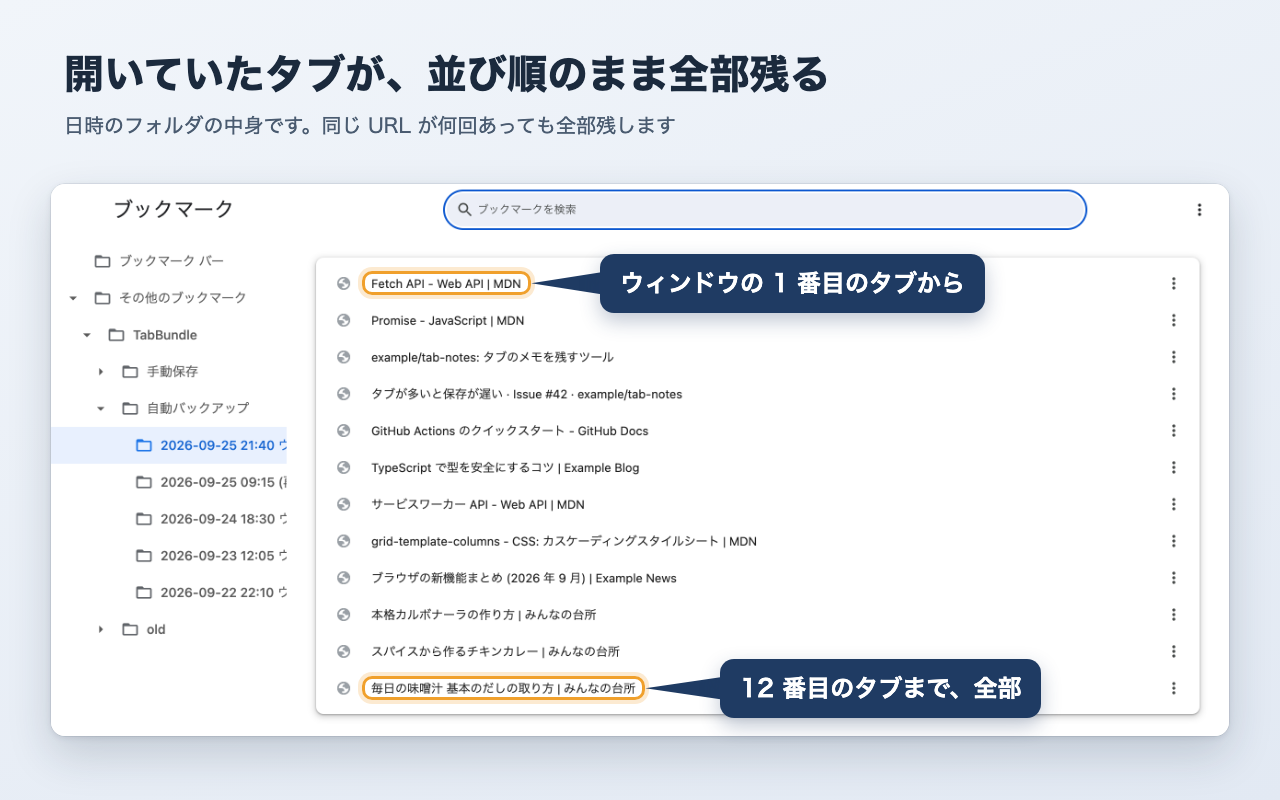
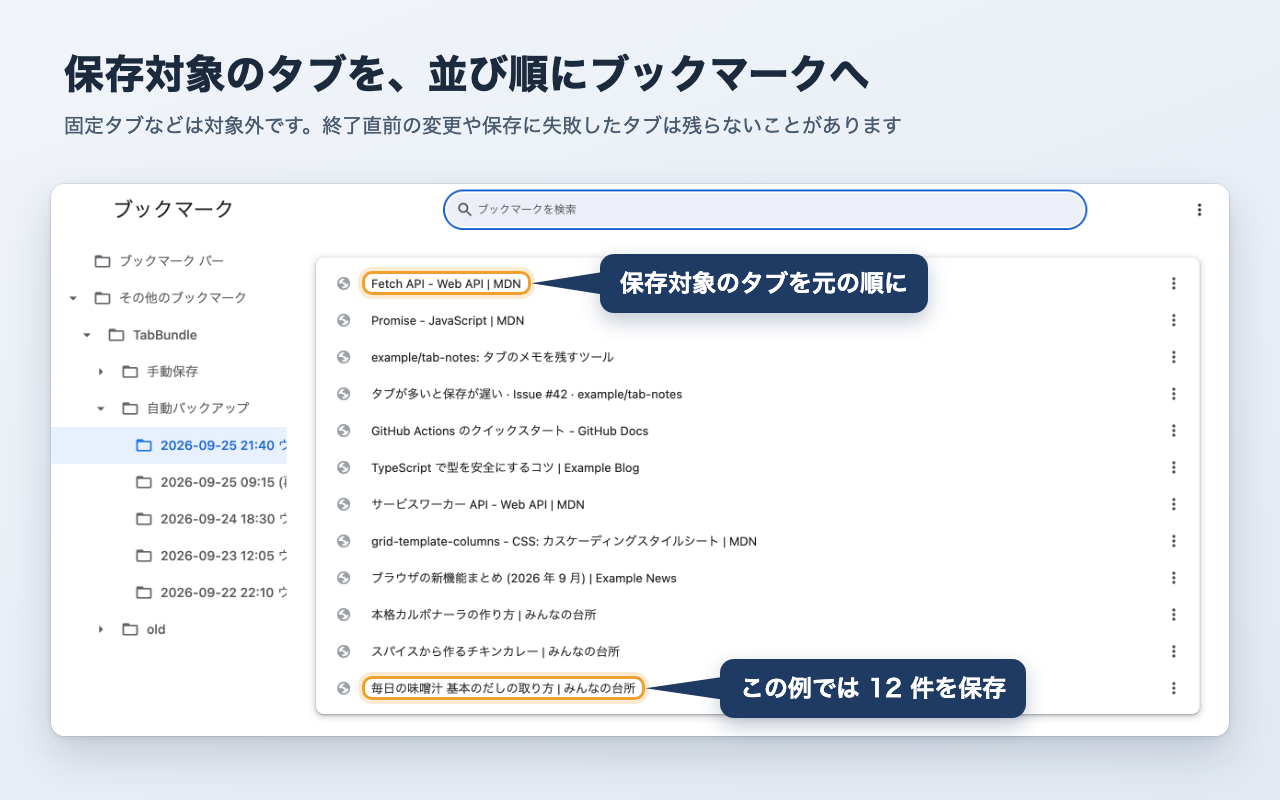
docs: clarify TabBundle privacy and release information

Changed region(s): [[0.0312, 0.0625, 0.6875, 0.1875], [0.4688, 0.3125, 0.7812, 0.4062], [0.5625, 0.8125, 0.8125, 0.9062]]

diff --git a/PRIVACY.md b/PRIVACY.md
@@ -4,96 +4,92 @@
 
 ## 日本語
 
-### 提供者
+### 提供者と適用範囲
 
-TabBundle は GearMind Inc. (株式会社GearMind) が提供します。会社のウェブサイトは https://gearmind.cc/ です。このポリシーでいう「開発者」は GearMind Inc. を指します。
+TabBundle は [GearMind Inc.（株式会社GearMind）](https://gearmind.cc/) が提供する Chrome 拡張機能です。このポリシーは、TabBundle が扱う情報について説明します。
 
-### 集める情報と使い方
+### 取得する情報と利用目的
 
-TabBundle は、通常ウィンドウで開いているタブの URL、タイトル、固定の有無、並び順を読みます。タブの一覧を控え、自動バックアップ用のブックマークを作るために使います。保存したブックマークのタイトルと URL は、ポップアップの検索にも使います。
+通常ウィンドウのタブの URL、タイトル、固定の有無、並び順を取得し、ブックマークへの自動保存と検索に使います。保存・復旧に必要なウィンドウなどの識別子と日時も記録します。
 
-ページ本文の保存は、最初はすべてのサイトで OFF です。右クリックメニューで ON にしたホスト名と、該当ページの表示本文の先頭 20,000 字を扱います。ON の判定はホスト名の完全一致です。本文は URL ごとに保存し、ポップアップの検索に使います。休止中のタブや読み取れないページの本文は保存しません。本文には、開いたページによって個人情報が含まれる可能性があります。
+固定タブ、新しいタブ、拡張機能のページ、URL が空のタブは、ブックマークへの自動保存から除きます。自動保存前のタブ一覧には含まれます。シークレットウィンドウのタブは取得しません。
 
-固定タブ、新しいタブ、拡張機能のページ、URL が空のタブはバックアップしません。シークレットウィンドウのタブは、タブの控えにも本文の保存にも含めません。
+ページ本文の保存は、初期状態ではすべてのサイトで OFF です。右クリックメニューで ON にしたサイトのホスト名と、表示本文の先頭 20,000 字までを保存し、検索に使います。同じ URL の本文は上書きします。対象はホスト名の完全一致で判定するため、例えば `github.com` を ON にしても `gist.github.com` は対象になりません。休止中のタブや読み取れないページの本文は保存しません。
+
+保存した URL、タイトル、本文には、閲覧したページによって個人情報や私的な内容が含まれることがあります。
 
 ### 保存場所と共有
 
-情報はこの PC の Chrome 内に保存します。ブックマークは「その他のブックマーク/TabBundle/」以下に置きます。タブの控え、保存後の確認待ち情報、ON のホスト名、本文、古いバックアップを移した時刻は `chrome.storage.local` に置きます。一時的なセッション ID は `chrome.storage.session` に置きます。`chrome.storage.sync` は使いません。保存データを拡張機能で暗号化していません。
+情報は利用者の Chrome 内に保存します。TabBundle 自体は外部へ送信せず、開発者が保存データを取得・閲覧する機能もありません。アカウント登録は不要です。
 
-TabBundle 自体はデータを外部へ送信せず、第三者に提供・販売しません。広告や解析にも使いません。アカウント登録、メールアドレスの入力、`chrome.identity` は使いません。取得した情報は、タブのバックアップと保存済みページの検索という目的にだけ使います。個人向け広告、広告プラットフォームやデータブローカーへの提供、信用判断や貸付には使いません。開発者やその関係者が保存データを閲覧する機能もありません。この取り扱いは Chrome ウェブストアの User Data Policy と Limited Use の制限に従います。
+ブックマークは「その他のブックマーク/TabBundle/」以下に保存します。Chrome のブックマーク同期が有効な場合、Chrome の機能によって Google に同期されることがあります。ページ本文は端末内に保存し、この同期の対象にはなりません。
 
-TabBundle が作るブックマークは、Chrome の通常のブックマークです。Chrome のブックマーク同期を有効にしている場合、Chrome 自身の機能として Google に同期されることがあります。これは TabBundle による送信ではありません。`chrome.storage.local` にある本文は Chrome のブックマーク同期の対象ではありません。
+TabBundle は保存データを独自に暗号化していません。端末や Chrome のプロファイルにアクセスできる人が、保存内容を読める可能性があります。
 
-### 保存期間と削除
+取得した情報は、タブのバックアップと保存済みページの検索にだけ使います。広告・アクセス解析、第三者への提供・販売、信用判断・貸付には利用しません。この情報の利用は、Chrome ウェブストアの [Limited Use](https://developer.chrome.com/docs/webstore/program-policies/limited-use) の制限に従います。
 
-自動バックアップは作成から 7 日を過ぎた後の次の片付けで「old/自動バックアップ/」へ移します。そこに移ってから 7 日を過ぎた後の次の片付けで削除します。「手動保存/」は自動で移動・削除しません。
+### 保存期間と削除方法
 
-サイトを OFF にすると、そのホストの保存済み本文をすべて消し、サイトへのアクセス許可を外します。Chrome の拡張機能設定でサイトへのアクセスを外した場合も、OFF にして本文を消します。TabBundle 内のブックマークから URL がなくなった本文は、片付けの際に消します。ただし、現在開いているタブと、まだバックアップを書いていないウィンドウの URL の本文は残します。
+- 自動バックアップは、作成から 7 日を過ぎた後の整理で「old/自動バックアップ/」へ移し、移動から 7 日を過ぎた後の整理で削除します。整理は 1 日 1 回と Chrome の起動時に行います。Chrome が動いていない間は削除されません。
+- 「手動保存/」内のブックマークは自動削除しません。残したいものは、このフォルダへ移してください。ブックマークは Chrome のブックマーク管理画面から削除できます。
+- 本文保存を OFF にすると、そのサイトの保存済み本文とアクセス許可を削除します。Chrome の設定からサイトへのアクセスを取り消した場合も同様です。ON にしたサイトの設定は、OFF にするまで保持します。
+- TabBundle 内にブックマークがなくなったページの本文は、次の整理で削除します。ただし、開いているタブや自動バックアップの処理待ちのページの本文は残します。本文に一律の日数による保存期限はありません。
+- 復旧用のタブ一覧は、タブの変更に合わせて更新します。閉じたウィンドウの情報は、保存処理を終えた後の更新時に削除します。保存直後の確認用データは、通常、保存から 60 秒以上経過した後の処理で削除します。Chrome の終了などで処理できなかった分は、次回起動時の復旧・確認まで残ります。
+- 起動を区別する一時的な識別子は、Chrome の再起動や拡張機能の更新・再読み込み・無効化で消えます。復旧用データ内の識別子は、そのデータとともに削除します。古いバックアップの移動日時は、対象がその保存先からなくなった後の整理で削除します。
 
-右クリックメニューからサイトを OFF にできます。TabBundle のブックマークは Chrome のブックマーク管理画面で削除できます。Chrome の仕様で、TabBundle をアンインストールすると `chrome.storage.local` のデータは削除されますが、作成済みのブックマークは残ります。不要なブックマークはご自身で削除できます。
+アンインストールすると、本文や復旧用データなど拡張機能内の保存情報は削除されます。作成済みのブックマークは残るため、不要なものは Chrome のブックマーク管理画面から削除してください。
 
-### 権限と理由
+### お問い合わせと変更
 
-| 権限 | 理由 |
-|---|---|
-| `tabs` | 開いているタブの URL とタイトルを読んで、自動バックアップに残すため |
-| `bookmarks` | TabBundle フォルダに書き込み、検索のために読むため |
-| `storage` | 控え、本文、ON のサイトの一覧を、この PC の中に置くため |
-| `alarms` | 1 日 1 回の片付けのため |
-| `contextMenus` | 本文の保存を ON / OFF する右クリックメニューのため |
-| `scripting` | ON にしたサイトのページから本文を読むため |
-| `unlimitedStorage` | 本文がたまっても保存の上限（10 MB）で止まらないようにするため |
-| サイトへのアクセス（`optional_host_permissions`） | インストール時には求めず、本文の保存を ON にしたサイトだけ、そのときに許可を求めるため |
+お問い合わせは [GearMind のフォーム](https://gearmind.cc/contact/) で受け付けます。送信する名前・メールアドレス・お問い合わせ内容には、[会社サイトのプライバシーポリシー](https://gearmind.cc/privacy/) が適用されます。
 
-### 問い合わせと変更
+不具合や機能の要望は [GitHub Issues](https://github.com/gearmind-inc/TabBundle/issues) でも受け付けます。投稿は公開されます。個人情報や機密情報を含む URL・本文・画像は投稿しないでください。
 
-問い合わせは GearMind Inc. のお問い合わせフォーム (https://gearmind.cc/contact/) で受け付けます。不具合の報告や機能の要望は、GitHub の TabBundle リポジトリの Issues でも受け付けます。このポリシーを変更した場合は、ここに変更後の内容と最終更新日を掲載します。
+このポリシーを変更した場合は、このページに変更後の内容と最終更新日を掲載します。
 
 ## English
 
 Last updated: 2026-09-30
 
-### Provider
+### Provider and scope
 
-TabBundle is provided by GearMind Inc. (株式会社GearMind). For more information, visit https://gearmind.cc/. In this policy, “the developer” means GearMind Inc.
+TabBundle is a Chrome extension provided by [GearMind Inc. (株式会社GearMind)](https://gearmind.cc/). This policy explains how TabBundle handles data.
 
-### Data collected and how it is used
+### Data collected and its purpose
 
-TabBundle reads the URL, title, pinned status, and order of tabs in normal windows. It keeps a local snapshot of open tabs to create automatic bookmark backups. It also uses the titles and URLs of saved bookmarks for search in the popup.
+TabBundle reads the URLs, titles, pinned status, and order of tabs in normal windows for automatic bookmark backups and search. It also records identifiers, such as window identifiers, and timestamps needed for saving and recovery.
 
-Saving page text is OFF for every site by default. When you turn it ON through the right-click menu, TabBundle stores the exact hostname and up to the first 20,000 characters of visible page text. Hostnames must match exactly. Text is stored by URL and used for search in the popup. It does not save text from discarded tabs or pages it cannot read. Depending on the page, the saved text may contain personal information.
+Pinned tabs, new tabs, extension pages, and tabs with empty URLs are excluded from automatic bookmark backups. They are included in the local tab snapshot before backup. Incognito tabs are not collected.
 
-Pinned tabs, new tabs, extension pages, and tabs with empty URLs are excluded from backups. Tabs in incognito windows are excluded from both the tab snapshot and page-text saving.
+Page-text saving is OFF for every site by default. When enabled through the right-click menu, TabBundle saves the site's hostname and up to the first 20,000 characters of visible page text for search. Text saved for the same URL is replaced. Hostnames must match exactly: enabling `github.com` does not enable `gist.github.com`. Text from discarded tabs or unreadable pages is not saved.
+
+Depending on the pages visited, saved URLs, titles, and text may contain personal information or private content.
 
 ### Storage and sharing
 
-Data is stored in Chrome on this computer. Bookmarks are placed under “Other bookmarks/TabBundle/”. The tab snapshot, pending verification data, enabled hostnames, page text, and timestamps for moved backups are stored in `chrome.storage.local`. A temporary session ID is stored in `chrome.storage.session`. TabBundle does not use `chrome.storage.sync`. TabBundle does not encrypt stored data itself.
+Data is stored in the user's Chrome browser. TabBundle itself does not send it externally and has no feature that lets the developer retrieve or read it. No account registration is required.
 
-TabBundle does not send data outside the extension, share it with third parties, or sell it. It does not use data for advertising or analytics. It does not require account registration or an email address, and it does not use `chrome.identity`. It uses the data only to back up tabs and search saved pages. It does not use data for personalized advertising, provide it to ad platforms or data brokers, or use it for credit decisions or lending. The developer and their staff have no feature for reading stored user data. This use complies with the Chrome Web Store User Data Policy, including its Limited Use requirements.
+Bookmarks are saved under “Other bookmarks/TabBundle/”. If Chrome bookmark sync is enabled, Chrome may sync them to Google. Page text is stored on the device and is not included in bookmark sync.
 
-Bookmarks created by TabBundle are ordinary Chrome bookmarks. If Chrome bookmark sync is enabled, Chrome itself may sync them to Google. TabBundle does not send them. Page text in `chrome.storage.local` is not part of Chrome bookmark sync.
+TabBundle does not encrypt stored data itself. Someone with access to the device or Chrome profile may be able to read it.
+
+Data is used only for tab backups and searching saved pages. It is not used for advertising, analytics, credit decisions, or lending, or shared or sold to third parties. This use of information adheres to the Chrome Web Store's [Limited Use](https://developer.chrome.com/docs/webstore/program-policies/limited-use) restrictions.
 
 ### Retention and deletion
 
-At the next cleanup after an automatic backup becomes more than seven days old, TabBundle moves it to “old/自動バックアップ/”. At the next cleanup after it has spent more than seven days there, TabBundle deletes it. TabBundle does not automatically move or delete items in “手動保存/”.
+- Automatic backups move to “old/自動バックアップ/” at the next cleanup after they become more than seven days old. They are deleted at the next cleanup after more than seven days in that folder. Cleanup runs daily and when Chrome starts. Data is not deleted while Chrome is not running.
+- Bookmarks in “手動保存/” are not automatically deleted. Move bookmarks there to keep them. You can delete bookmarks in Chrome's bookmark manager.
+- Turning page-text saving OFF deletes the site's saved text and removes its access permission. Revoking site access in Chrome's settings does the same. Enabled-site settings are kept until turned OFF.
+- Text for pages no longer bookmarked under TabBundle is deleted during the next cleanup, except for open tabs and pages awaiting automatic backup. Page text has no fixed retention period.
+- The recovery snapshot is updated as tabs change. Information about a closed window is removed during a snapshot update after its save operation completes. Data kept to check a recent save is normally removed during processing after at least 60 seconds have passed. If Chrome closes before processing completes, data remains until recovery and verification on the next startup.
+- The temporary identifier used to distinguish browser sessions is cleared when Chrome restarts or the extension is updated, reloaded, or disabled. Identifiers in recovery data are deleted with that data. Backup move timestamps are deleted during cleanup after the corresponding items leave the old-backup folder.
 
-Turning a site OFF deletes all saved page text for that hostname and removes its site access permission. Removing site access in Chrome's extension settings also turns it OFF and deletes that text. During cleanup, TabBundle deletes text for URLs no longer bookmarked under TabBundle. It keeps text for tabs that are still open and for windows whose backups have not yet been written.
-
-You can turn a site OFF using the right-click menu and delete TabBundle bookmarks in Chrome's bookmark manager. Under Chrome's behavior, uninstalling TabBundle deletes its `chrome.storage.local` data, while its bookmarks remain. You can delete those bookmarks yourself.
-
-### Permissions and reasons
-
-| Permission | Reason |
-|---|---|
-| `tabs` | Read open-tab URLs and titles for automatic backups |
-| `bookmarks` | Write to the TabBundle folder and read it for search |
-| `storage` | Keep the tab snapshot, page text, and enabled hostnames in Chrome on this computer |
-| `alarms` | Run daily cleanup |
-| `contextMenus` | Provide the right-click menu for turning page-text saving ON or OFF |
-| `scripting` | Read page text on sites where saving is ON |
-| `unlimitedStorage` | Keep page-text storage from stopping at the 10 MB limit |
-| Site access (`optional_host_permissions`) | Request access only when you turn on page-text saving for a site, not at installation |
+Uninstalling TabBundle deletes its internal data, including saved text and recovery data. Created bookmarks remain. Delete unwanted bookmarks in Chrome's bookmark manager.
 
 ### Contact and changes
 
-For questions, use the GearMind Inc. contact form (https://gearmind.cc/contact/). Bug reports and feature requests are also welcome in Issues in the TabBundle GitHub repository. If this policy changes, the revised text and last-updated date will be posted here.
+For questions, use the [GearMind contact form](https://gearmind.cc/contact/). Names, email addresses, and messages submitted through the form are covered by the [company website's privacy policy](https://gearmind.cc/privacy/).
+
+Bug reports and feature requests are also welcome in [GitHub Issues](https://github.com/gearmind-inc/TabBundle/issues). Posts are public. Do not post URLs, text, or images containing personal or confidential information.
+
+If this policy changes, the revised text and last-updated date will be posted on this page.

diff --git a/store/submission.md b/store/submission.md
@@ -1,0 +1,85 @@
+# Chrome ウェブストアへの申請
+
+掲載本文は [listing.md](listing.md)、利用者向けの説明は [PRIVACY.md](../PRIVACY.md) にあります。このファイルは申請者向けです。
+
+## 登録するリンクと提供者
+
+| 項目 | 入力内容 |
+|---|---|
+| 提供者 | GearMind Inc. |
+| 登記上の法人名を求められた場合 | 株式会社GearMind |
+| 製品ホームページ | https://github.com/gearmind-inc/TabBundle |
+| プライバシーポリシー | https://github.com/gearmind-inc/TabBundle/blob/main/PRIVACY.md |
+| お問い合わせ | https://gearmind.cc/contact/ |
+
+製品ホームページの README から、ポリシーへリンクします。会社サイトのポリシーはお問い合わせ用なので、製品ポリシーの代わりには登録しません。メールアドレスはダッシュボードに直接入力してください。
+
+## 単一の目的 / Single purpose
+
+開いていたタブをブックマークに保存し、保存したページを後から検索できるようにします。サイトごとの本文保存は、検索を補助する任意の機能です。
+
+Save open tabs as bookmarks and make saved pages searchable later. Optional page-text saving for selected sites supports that search.
+
+## 権限ごとの理由
+
+- `tabs`: 通常ウィンドウの開いているタブの URL、タイトル、固定の有無、並びを読み、バックアップするためです。
+- `bookmarks`: TabBundle フォルダにバックアップを書き、保存済みページの検索と期限切れの自動バックアップの片付けをするためです。
+- `storage`: タブの控え、保存後の確認待ち、ON のホスト名、本文、古いバックアップの移動時刻を `chrome.storage.local` に保存し、セッション ID を `chrome.storage.session` に保存するためです。
+- `alarms`: 1 日 1 回の片付けを実行するためです。
+- `contextMenus`: サイトごとの本文保存を ON / OFF する右クリックメニューを表示するためです。
+- `scripting`: ON にしたサイトで、同梱の関数を実行してページ本文を読むためです。
+- `unlimitedStorage`: 保存する本文が増えても、通常の 10 MB の保存上限で止まらないようにするためです。
+- `https://*/*`（任意のサイト権限）: HTTPS サイトで本文保存を ON にしたとき、そのホストに限ってアクセス許可を求め、本文を読むためです。インストール時には要求しません。
+- `http://*/*`（任意のサイト権限）: HTTP サイトで本文保存を ON にしたとき、そのホストに限ってアクセス許可を求め、本文を読むためです。インストール時には要求しません。
+
+### Permission justifications
+
+- `tabs`: Read the URLs, titles, pinned status, and order of tabs in normal windows for backups.
+- `bookmarks`: Write backups in the TabBundle folder, search saved pages, and clean up expired automatic backups.
+- `storage`: Keep the tab snapshot, pending verification data, enabled hostnames, page text, and backup move times in `chrome.storage.local`, and a session ID in `chrome.storage.session`.
+- `alarms`: Run daily cleanup.
+- `contextMenus`: Show the right-click menu that turns page-text saving ON or OFF for a site.
+- `scripting`: Run the bundled function that reads page text on sites where saving is ON.
+- `unlimitedStorage`: Prevent saved page text from reaching the normal 10 MB storage limit.
+- `https://*/*` (optional site access): When you enable text saving for an HTTPS site, request access to that hostname to read page text. It is not requested at installation.
+- `http://*/*` (optional site access): When you enable text saving for an HTTP site, request access to that hostname to read page text. It is not requested at installation.
+
+## リモートコード / Remote code
+
+申告: **No, I am not using remote code.**
+
+外部のスクリプトは読み込みません。ページ本文の取得には、拡張機能に同梱した関数を使います。
+
+TabBundle does not load external scripts. The function used to read page text is bundled with the extension.
+
+## データの取り扱い
+
+端末内で処理する情報も開示対象です。「外部へ送信しない」ことを理由に「データを扱わない」と申告しないでください。
+
+| 扱う情報 | ダッシュボードで照合するデータ種別 |
+|---|---|
+| タブ・ブックマークの URL、タイトル、サイトのホスト名 | 閲覧履歴に関する区分 |
+| ON にしたサイトの表示本文 | ウェブサイトのコンテンツに関する区分 |
+| 本文などに含まれ得る氏名、メッセージ、健康・金融・認証などの情報 | 個人情報、個人的な通信、健康、金融、認証情報など、該当する各区分 |
+
+上表は扱う情報との対応です。実際のチェック項目は、申請時の画面の定義に照らして確定してください。本文を任意のサイトから取得できるため、閲覧履歴とコンテンツの 2 区分だけで十分とは断定していません。
+
+情報はバックアップと検索にのみ利用し、広告・アクセス解析、第三者への提供・販売、信用判断・貸付には利用しません。開発者が端末内の保存情報を取得・閲覧する機能はありません。Chrome によるブックマーク同期と、利用者が任意に送るお問い合わせは、製品ポリシーで区別しています。
+
+## 申請前の確認
+
+以下が未確認の間は、公開準備が完了したものとして扱わないでください。
+
+- [ ] 保存データの保護が Chrome ウェブストアの要件を満たすことを確認する。公式 FAQ の「What type of encryption does the User Data Policy require?」には、保存時の暗号化も記載されている。TabBundle は独自に暗号化しないと説明しているため、端末内保存だけで適合すると判断せず、保存方式の確認と、必要なら Chrome ウェブストアへの照会を行う。適合しない場合は、実装対応後に再確認する。
+- [ ] この変更を main に反映した後、製品ホームページとポリシーをログアウト状態で開き、更新後の本文とリンクを確認する。
+- [ ] データ種別と Limited Use の認証欄を実画面で確認し、ポリシーと一致する申告を登録する。
+- [ ] 提供者・連絡先・取引者（trader）情報を登録し、公開される情報をプレビューで確認する。
+- [ ] 日英の掲載本文と画像を登録する。短い説明は 132 文字以内とし、日本語は manifest の description と一致させる。各欄の上限と掲載結果は実画面で確認する。
+
+## 公式資料
+
+- [プライバシーポリシーの要件](https://developer.chrome.com/docs/webstore/program-policies/privacy)
+- [User Data FAQ（端末内保存・暗号化・開示）](https://developer.chrome.com/docs/webstore/program-policies/user-data-faq)
+- [Limited Use](https://developer.chrome.com/docs/webstore/program-policies/limited-use)
+- [プライバシー欄への入力](https://developer.chrome.com/docs/webstore/cws-dashboard-privacy)
+- [掲載情報の要件](https://developer.chrome.com/docs/webstore/program-policies/listing-requirements)

diff --git a/README.md b/README.md
@@ -2,7 +2,9 @@
 
 開いていたタブを、ブックマークに自動で残す Chrome 拡張機能です。
 
-ウィンドウを閉じても、Chrome を終了しても、PC が急に再起動しても、開いていたタブが「その他のブックマーク/TabBundle/自動バックアップ/」に日時のフォルダとして全部残ります。片付けは 1 日 1 回と Chrome の起動時に動きます。自動バックアップのフォルダは、作成から 7 日を過ぎた後の次の片付けで「old/自動バックアップ/」へ移り、old に入ってから 7 日を過ぎた後の次の片付けで削除されます。「手動保存/」は移動も削除もしません。
+ウィンドウを閉じたときや Chrome を再起動したときに、保存対象のタブを「その他のブックマーク/TabBundle/自動バックアップ/」へ日時のフォルダとして保存します。固定タブなどは対象外です。終了直前の変更や保存に失敗したタブは残らないことがあります（[取りこぼしの注意](#取りこぼしの注意)）。
+
+整理は 1 日 1 回と Chrome の起動時に行います。自動バックアップのフォルダは、作成から 7 日を過ぎた後の次の片付けで「old/自動バックアップ/」へ移り、old に入ってから 7 日を過ぎた後の次の片付けで削除されます。「手動保存/」は移動も削除もしません。
 
 残したページは、ツールバーのアイコンから開くポップアップでタイトル・URL・本文 (ON にしたサイトだけ) を使って探せます。
 
@@ -25,7 +27,7 @@
 - Google アカウントの同期を使っていて「その他のブックマーク」が 2 つあるときは、すでに TabBundle がある方を使います。どちらにも無ければ同期される方に作ります
 - 注意: `old/自動バックアップ/` に入れたフォルダは、old に入ってから 7 日を過ぎた後の次の片付けで消えます (自分で入れたフォルダは、片付けが最初に見つけた時から数えます)。残したい物は `手動保存/` へ移してください。
 
-## 保存しないタブ
+## 自動バックアップの対象外
 
 - 固定 (ピン留め) したタブ
 - 新しいタブ (`chrome://newtab`)
@@ -33,7 +35,7 @@
 - URL が空のタブ
 - シークレットウィンドウのタブ
 
-保存しないタブを除くと 0 タブになるウィンドウは、フォルダを作りません。
+対象のタブがないウィンドウは、フォルダを作りません。シークレット以外の対象外タブも、復旧用のタブ一覧には含まれます。
 
 ## 保存したページを探す (ポップアップ検索)
 
@@ -96,20 +98,21 @@ npm run build      # dist/ に拡張機能を作る
 
 - Chrome が終わる前に拡張機能が「ウィンドウが閉じた」を処理できたウィンドウは、「(再起動前)」の付かない名前で入ります
 - 処理が間に合わなかったウィンドウは、次に Chrome を起動したときに「(再起動前)」付きの名前で入ります
-- どちらの場合もタブは残ります
 
 ## 取りこぼしの注意
 
 - 最後の変化 (タブを開いた・閉じた・移動した・ページが変わったなど) から最大 2 秒以内にウィンドウを閉じた場合や、Chrome・PC が落ちた場合、その直近の変化は残りません
   - 他の保存 (ブックマークの書き込み) が走っている間は、控えの作り直しがその終わりを待つので、「最大 2 秒」はその分だけ延びることがあります
-- 保存したウィンドウが、処理の途中で止まったせいで失われることはありません (二重に残ることはあります)。保存した物は、上の保存期間のとおり自動で片付けます。
+- 保存処理が中断した場合は、復旧用の記録から次回起動時に保存を試みます。二重に残ることがあります。
 - 保存してから約 1 分以内に電源が落ちると、ブックマークの書き込みがディスクに届かないことがあります。その場合は次の起動で確かめて、中身が欠けていたり無くなっていたりしたら、同じ中身のフォルダを新しく書き直します (元のフォルダは消さないので、二重に残ることがあります)
 - Chrome が受け付けない URL などで 1 件のブックマークの作成に失敗した場合、そのタブは保存されません。エラーがコンソールに出るだけで、やり直しはしません
 - 拡張機能の更新・再読み込み・無効から有効に戻したときは、開いているウィンドウが「(再起動前)」付きで 1 回余分に保存されます (失うより二重に残す方を選んでいます)
 
 ## 提供者と問い合わせ
 
-TabBundle は GearMind Inc. (https://gearmind.cc/) が提供しています。問い合わせは [お問い合わせフォーム](https://gearmind.cc/contact/) で受け付けます。不具合の報告や機能の要望は、このリポジトリの Issues でも受け付けます。
+TabBundle は GearMind Inc. (https://gearmind.cc/) が提供しています。問い合わせは [お問い合わせフォーム](https://gearmind.cc/contact/) で受け付けます。フォームに送信する情報には、[会社サイトのプライバシーポリシー](https://gearmind.cc/privacy/) が適用されます。
+
+不具合の報告や機能の要望は [GitHub Issues](https://github.com/gearmind-inc/TabBundle/issues) でも受け付けます。投稿は公開されるため、個人情報や機密情報は含めないでください。
 
 ## ライセンス
 
